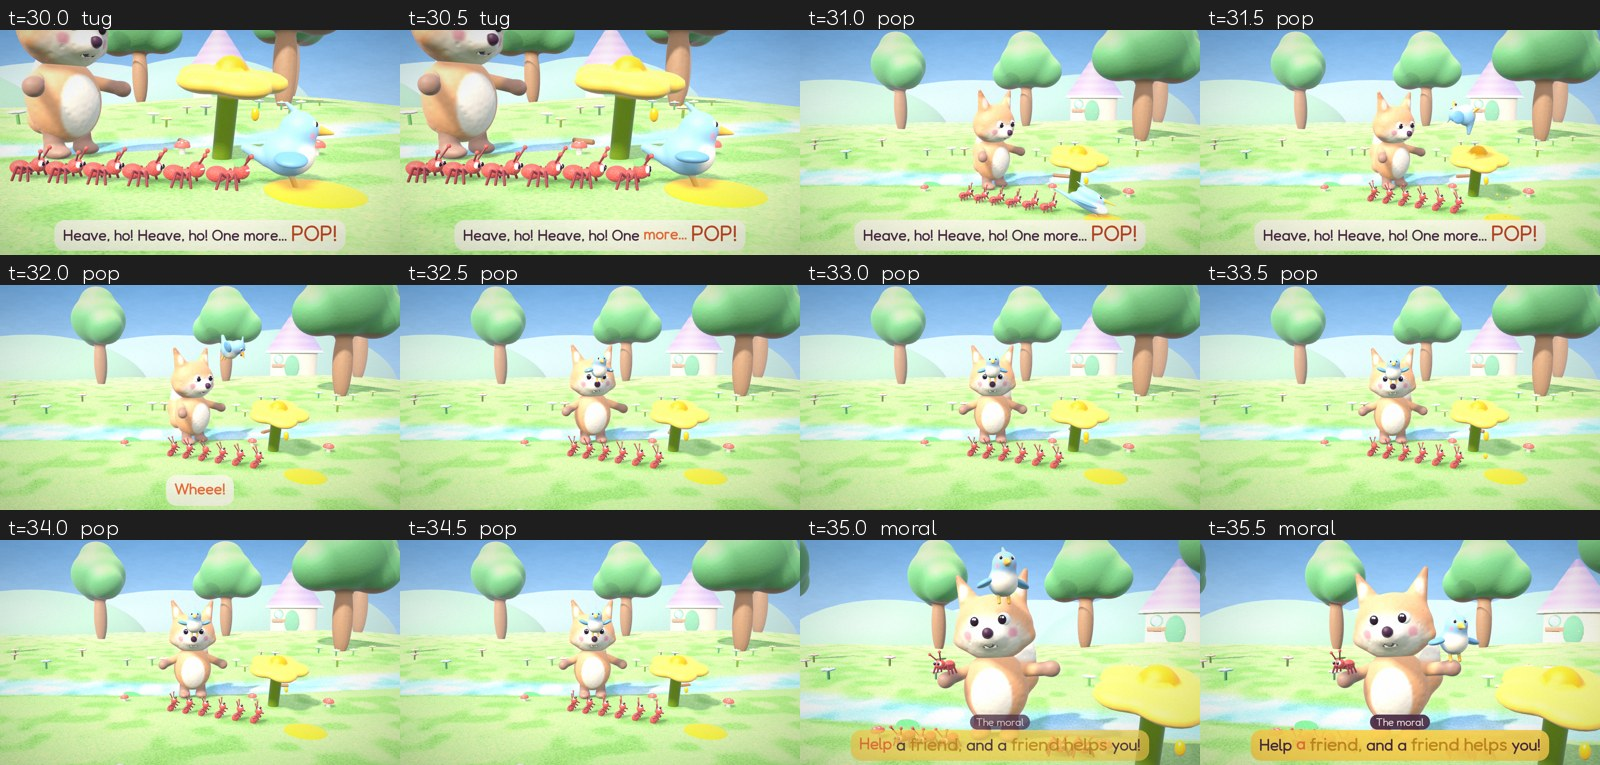
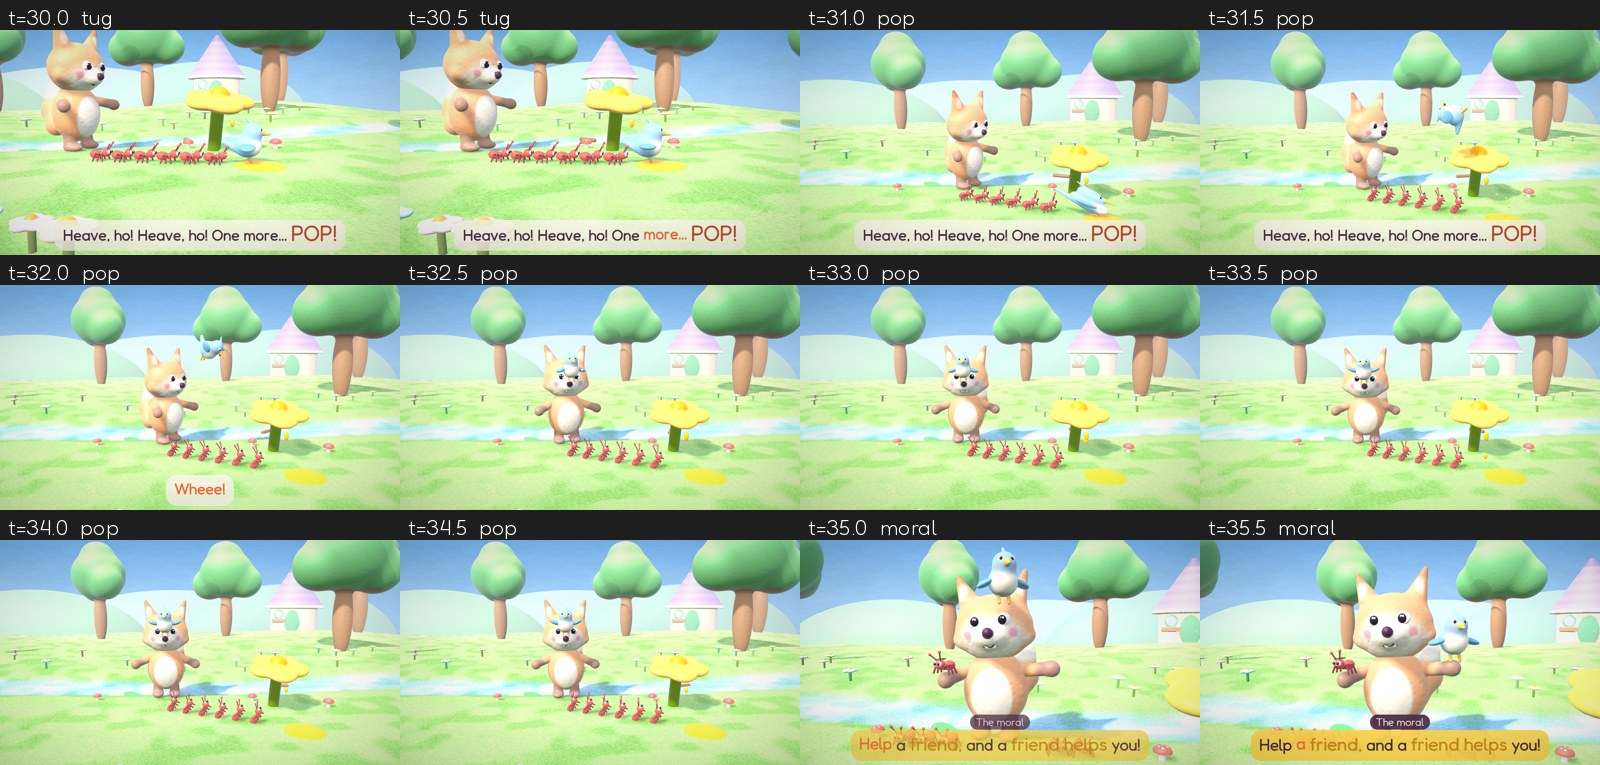
Fable 10: bigger stuck-stretch, sheets for review round 1
Claude-Session: https://claude.ai/code/session_011EeTRBWW5kitD6gAn3QTQD

diff --git a/batches/01-fables-friendship/fable-10-one-good-turn/code/render.py b/batches/01-fables-friendship/fable-10-one-good-turn/code/render.py
@@ -425,8 +425,8 @@ def pip_post(t, pip):
         s = 1.0
         for ta in STUCK_TRIES:
             d = t - ta
-            if 0 <= d < 0.45: s = max(s, 1 + 0.38 * math.sin(math.pi * min(d / 0.3, 1.0) / 2) ** 2 if d < 0.3 else 1.38)
-            elif 0.45 <= d < 1.3: s = max(s, 1 + 0.38 * math.exp(-(d - 0.45) * 6) * math.cos((d - 0.45) * 18)) if True else s
+            if 0 <= d < 0.45: s = max(s, 1 + 0.6 * math.sin(math.pi * min(d / 0.3, 1.0) / 2) ** 2 if d < 0.3 else 1.6)
+            elif 0.45 <= d < 1.3: s = max(s, 1 + 0.6 * math.exp(-(d - 0.45) * 6) * math.cos((d - 0.45) * 18)) if True else s
         if s != 1.0: return stretch_M(feet, np.array([0, 1.0, 0]), s)
         return None
     if n == "tug" or (n == "pop" and t < T.POP + 0.12):
